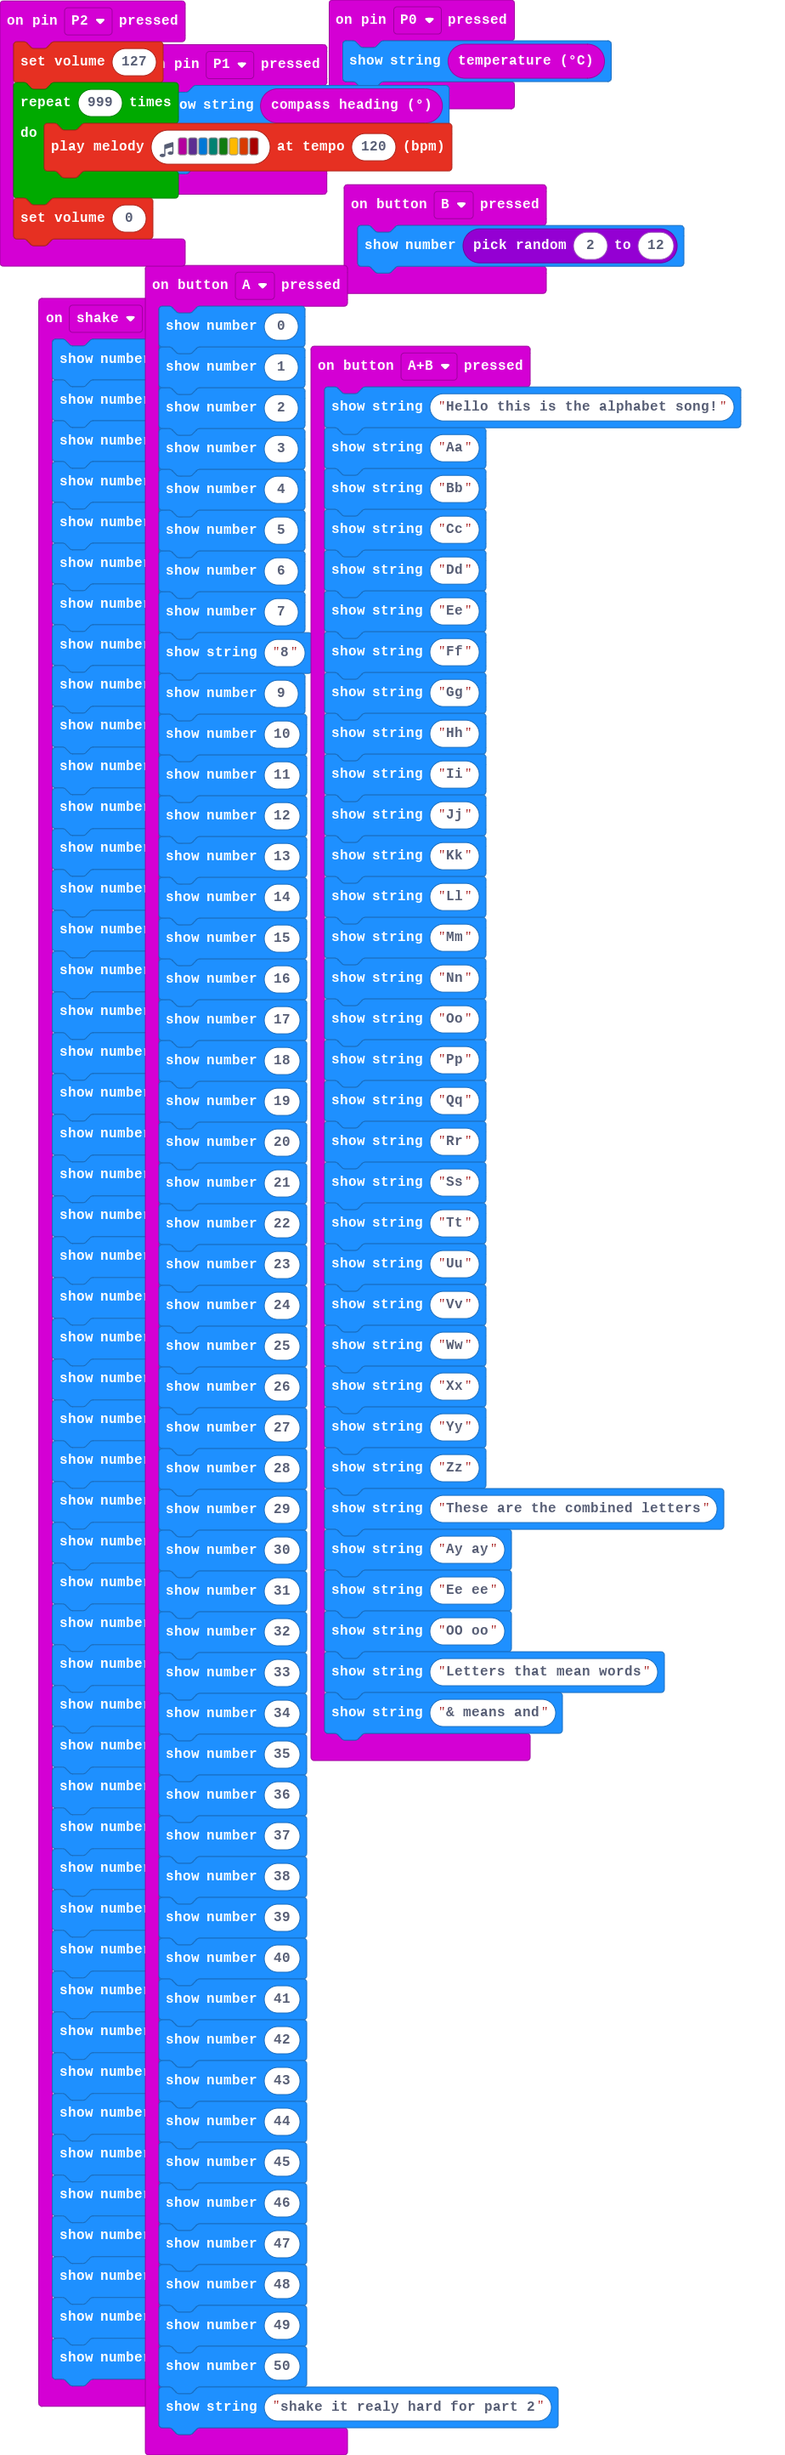
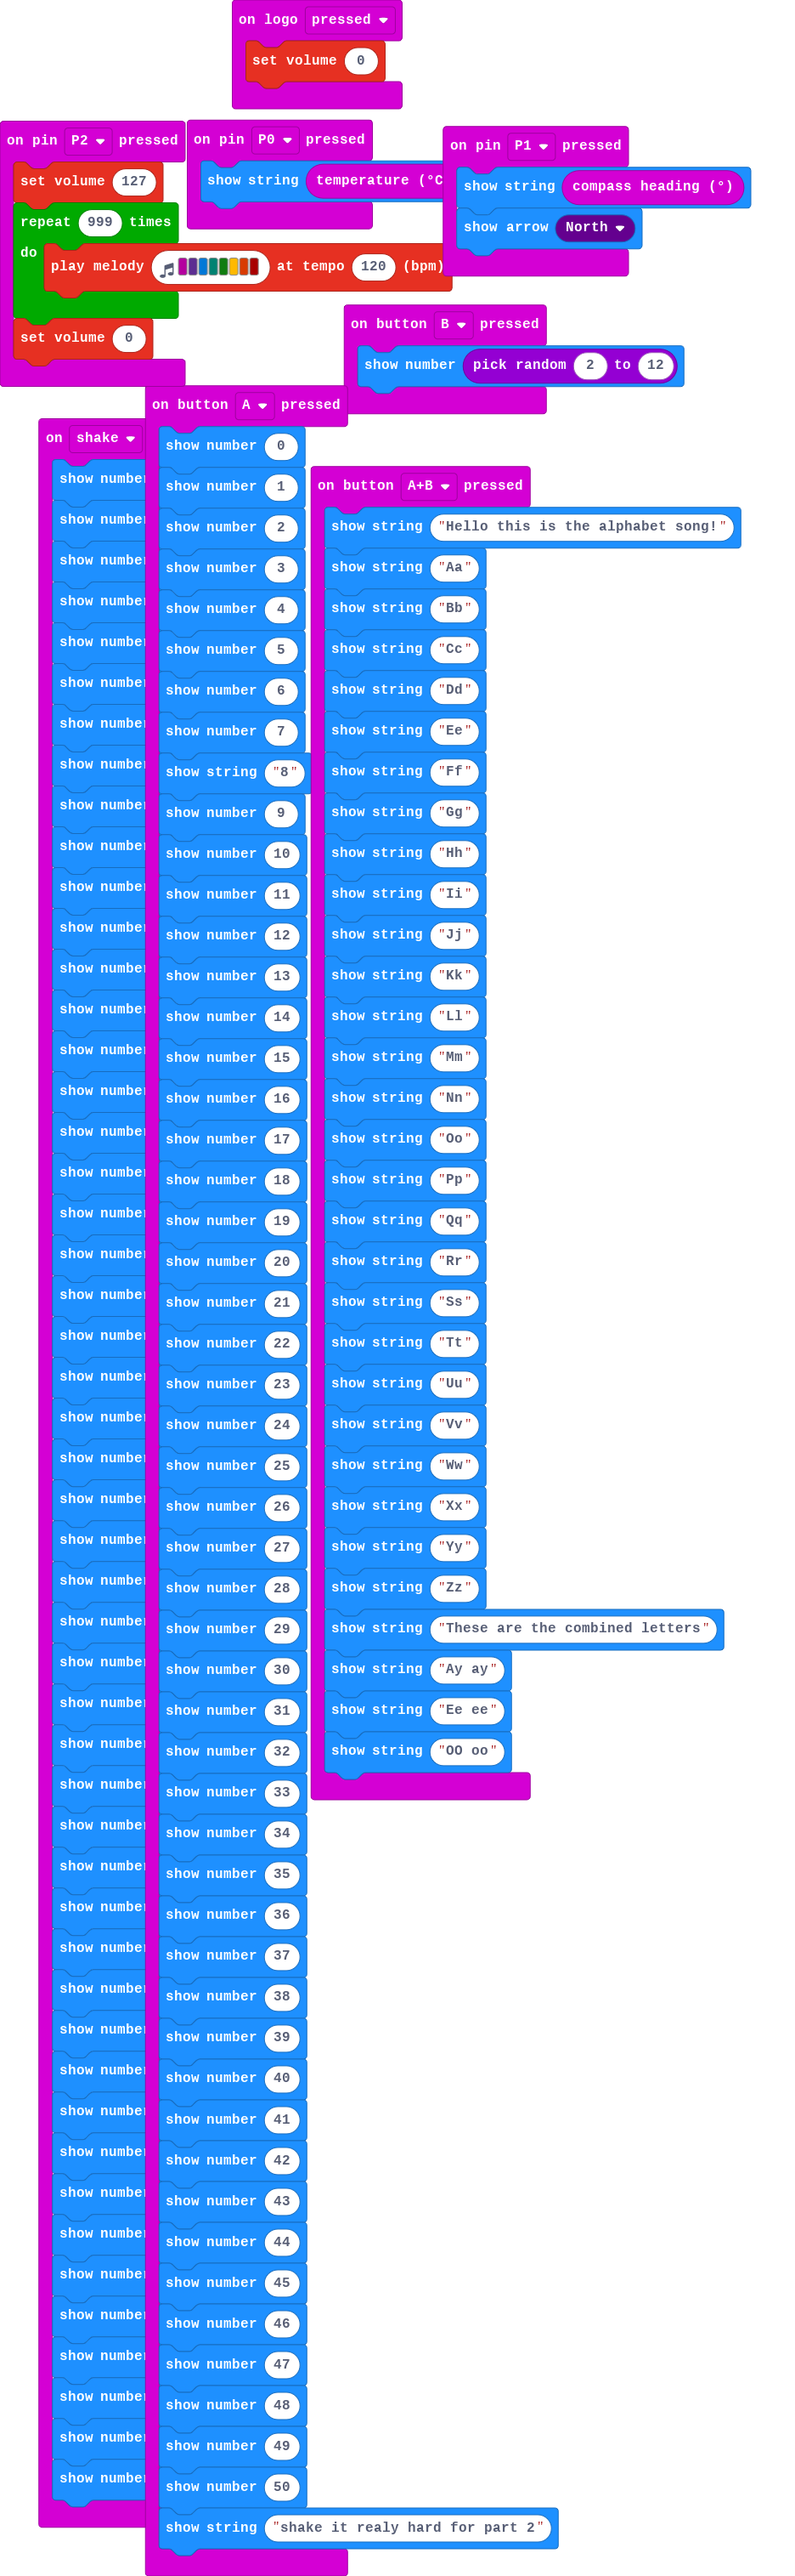
Update pxt.json, main.blocks, main.ts

Changed region(s): [[0.0, 0.0, 0.9697, 1.0]]

diff --git a/main.ts b/main.ts
@@ -94,8 +94,6 @@ input.onButtonPressed(Button.AB, function () {
     basic.showString("Ay ay")
     basic.showString("Ee ee")
     basic.showString("OO oo")
-    basic.showString("Letters that mean words")
-    basic.showString("& means and")
 })
 input.onButtonPressed(Button.B, function () {
     basic.showNumber(randint(2, 12))
@@ -155,4 +153,7 @@ input.onGesture(Gesture.Shake, function () {
     basic.showNumber(98)
     basic.showNumber(99)
     basic.showNumber(100)
+})
+input.onLogoEvent(TouchButtonEvent.Pressed, function () {
+    music.setVolume(0)
 })
